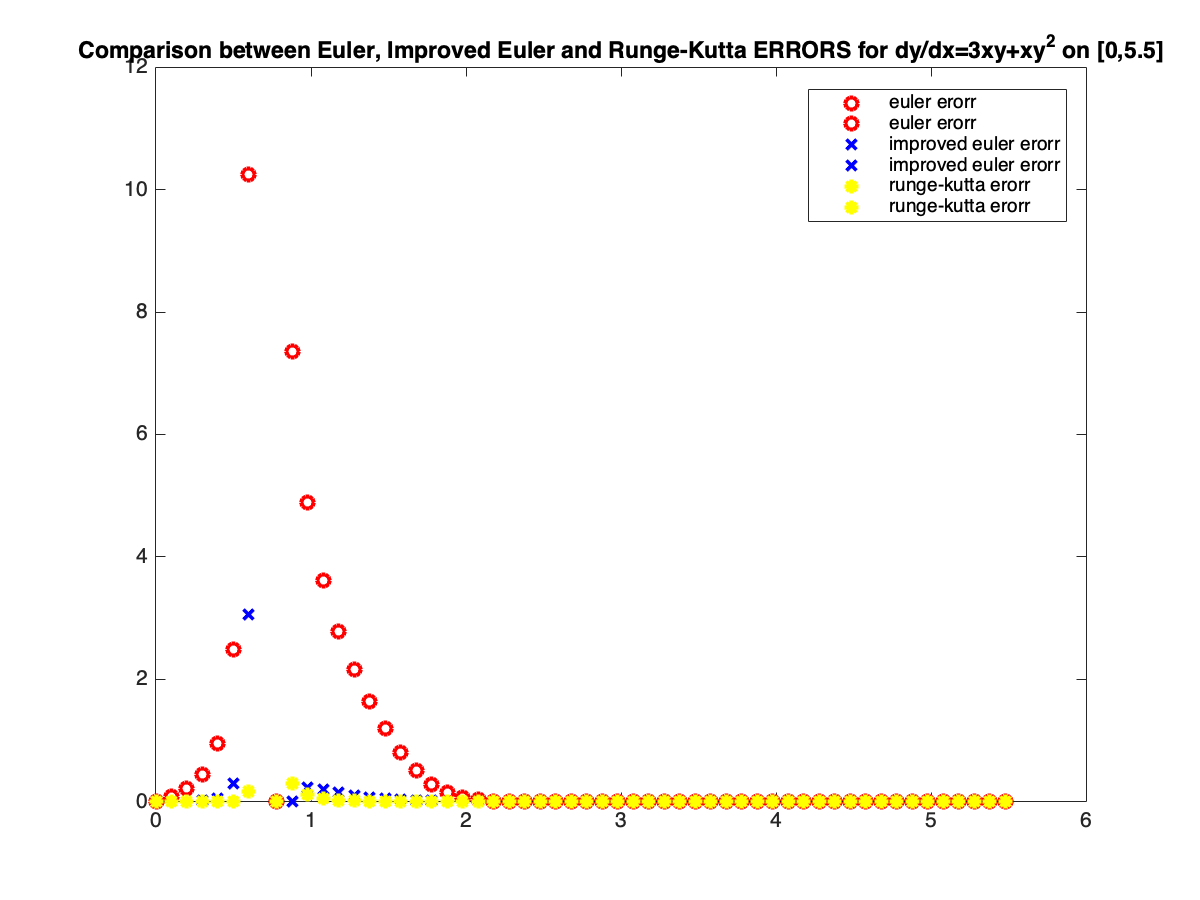
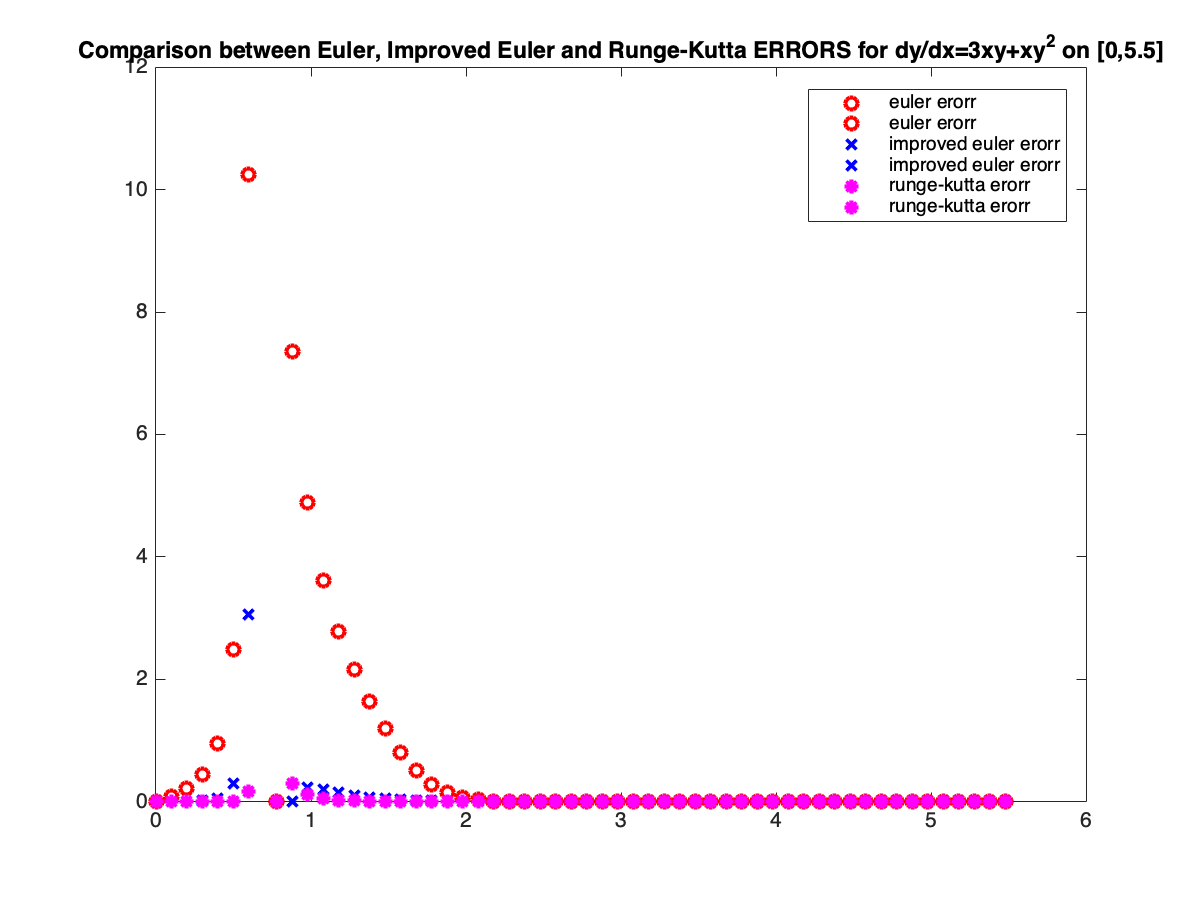
chore: calculate formulas generically

Changed region(s): [[0.1233, 0.8711, 0.8633, 0.9022]]

diff --git a/main.m b/main.m
@@ -34,17 +34,21 @@ t2 = (asymptote+h):h:b;
 % Problem12.m specifies the equation dy/dx = 3xy + xy^2
 % Can be included as ''
 
+% calculate first step after asymptote
+asy_plus_h = (asymptote + h) ^ 2;
+after_asymptote = -1*(3*exp(3/2*(asy_plus_h)))./(exp(3/2*(asy_plus_h))-2);
+
 % EULER METHOD, before the asymptote and after
 [x1eul,y1eul] = EulerMethod('Problem12', a, asymptote, ya, h);
-[x2eul,y2eul] = EulerMethod('Problem12', asymptote+h, b, -15.2575, h); % -15.2575 = sol. at asymptote + h
+[x2eul,y2eul] = EulerMethod('Problem12', asymptote+h, b, after_asymptote, h); % -15.2575 = sol. at asymptote + h (h = 0.1)
 
 % IMPROVED EULER METHOD, before the asymptote and after
 [x1improved,y1improved] = ImprovedEulerMethod('Problem12', a, asymptote, ya, h);
-[x2improved,y2improved] = ImprovedEulerMethod('Problem12', asymptote+h, b, -15.2575, h);
+[x2improved,y2improved] = ImprovedEulerMethod('Problem12', asymptote+h, b, after_asymptote, h);
 
 % RUNGE-KUTTA METHOD, before the asymptote and after
 [x1rk, y1rk] = RungeKuttaMethod('Problem12', a, asymptote, ya, h);
-[x2rk, y2rk] = RungeKuttaMethod('Problem12', asymptote+h, b, -15.2575, h);
+[x2rk, y2rk] = RungeKuttaMethod('Problem12', asymptote+h, b, after_asymptote, h);
 
 % EXACT SOLUTION OF THE PROBLEM, before the asymptote and after
 sq1 = x1improved.^2;
@@ -64,8 +68,8 @@ plot(t1, y1improved, 'bx', 'LineWidth', 2);
 plot(t2, y2improved, 'bx', 'LineWidth', 2);
 
 % plot rk
-plot(t1, y1rk, 'y*', 'LineWidth', 2);
-plot(t2, y2rk, 'y*', 'LineWidth', 2);
+plot(t1, y1rk, 'm*', 'LineWidth', 2);
+plot(t2, y2rk, 'm*', 'LineWidth', 2);
 
 % plot exact solution
 plot(t1, yi1, 'g--', 'LineWidth', 2);
@@ -116,8 +120,8 @@ plot(t1, imp1err, 'bx', 'LineWidth', 2);
 plot(t2, imp2err, 'bx', 'LineWidth', 2);
 
 % runge kutta
-plot(t1, rk1err, 'y*', 'LineWidth', 2);
-plot(t2, rk2err, 'y*', 'LineWidth', 2);
+plot(t1, rk1err, 'm*', 'LineWidth', 2);
+plot(t2, rk2err, 'm*', 'LineWidth', 2);
 
 % add more information
 hold off;
